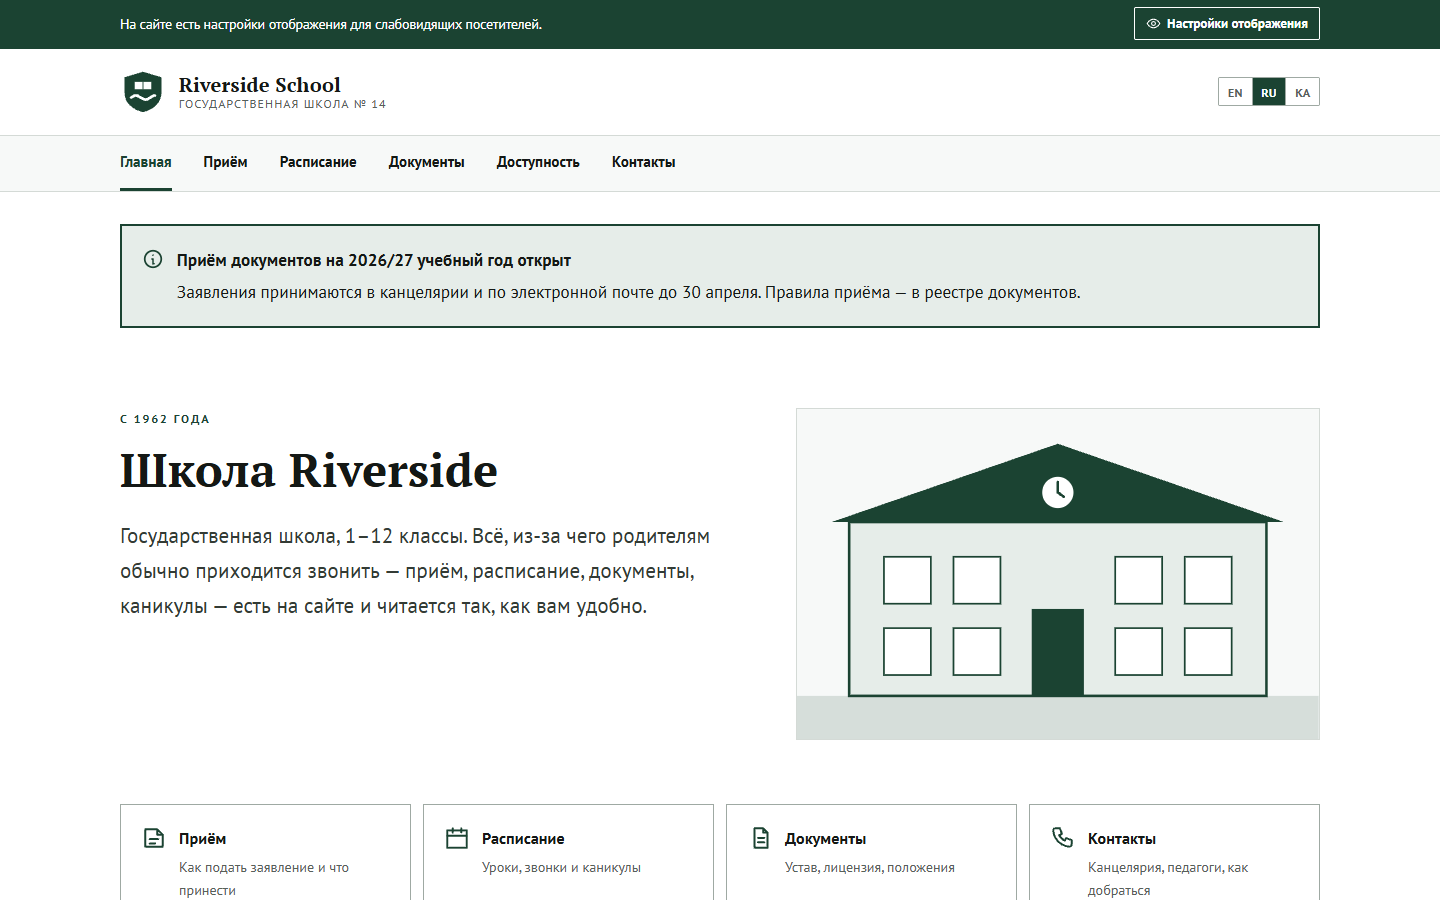
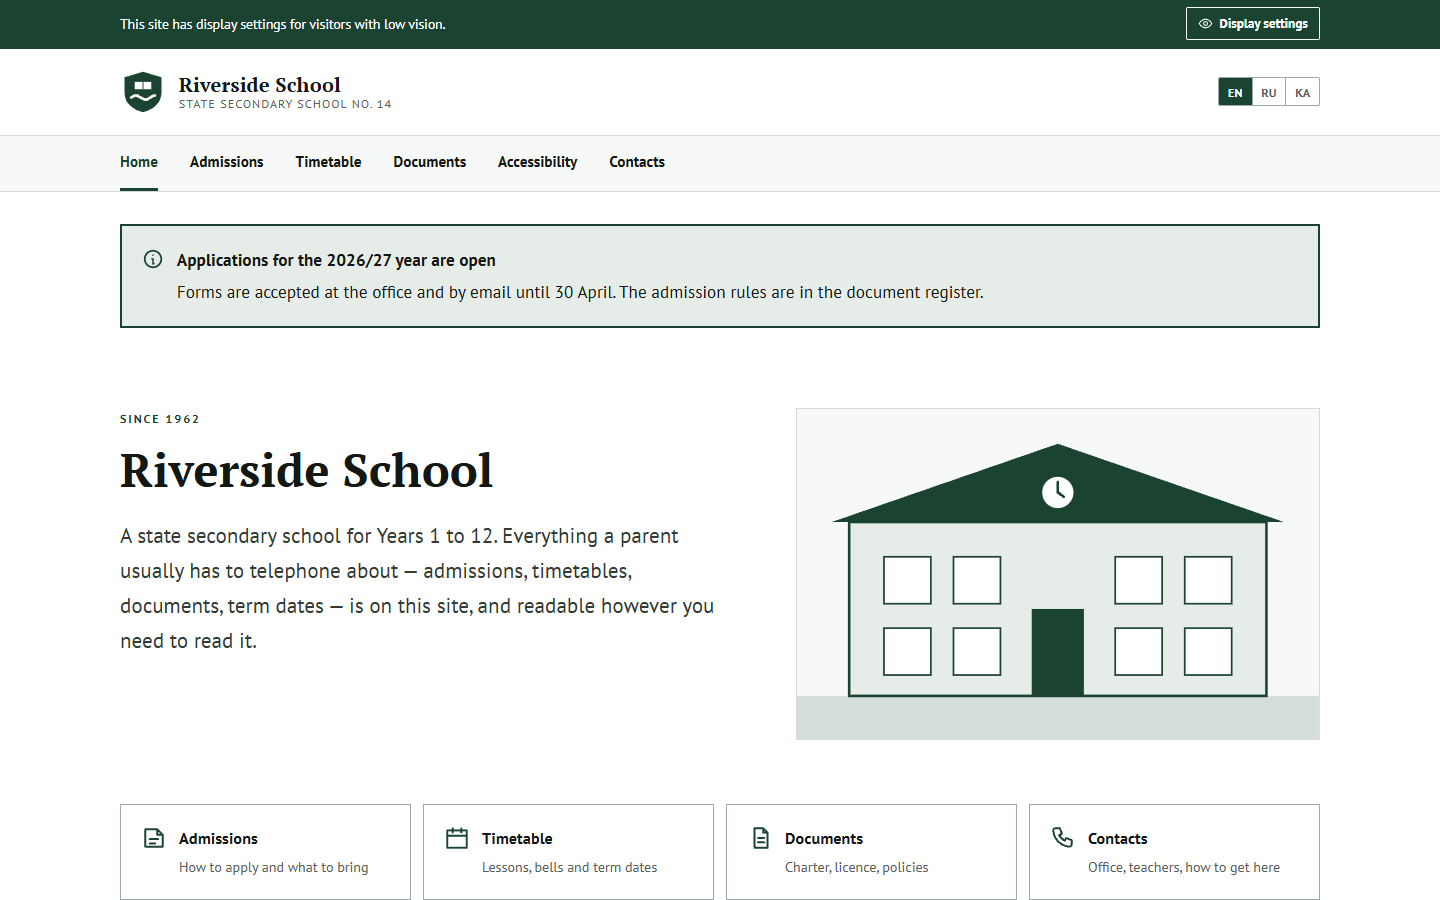
Site files, README and preview

diff --git a/accessibility.html b/accessibility.html
@@ -24,8 +24,7 @@
   if (p && langs.indexOf(p[1].toLowerCase()) > -1) lang = p[1].toLowerCase();
   if (!lang) { try { var s = localStorage.getItem('rs-lang'); if (langs.indexOf(s) > -1) lang = s; } catch (e) {} }
   if (!lang) {
-    var n = (navigator.language || 'en').toLowerCase();
-    lang = n.indexOf('ru') === 0 ? 'ru' : (n.indexOf('ka') === 0 ? 'ka' : 'en');
+    lang = 'en';
   }
   d.setAttribute('data-lang', lang);
   if (lang !== 'en') { d.className += ' i18n-pending'; setTimeout(function () { d.classList.remove('i18n-pending'); }, 1200); }

diff --git a/documents.html b/documents.html
@@ -24,8 +24,7 @@
   if (p && langs.indexOf(p[1].toLowerCase()) > -1) lang = p[1].toLowerCase();
   if (!lang) { try { var s = localStorage.getItem('rs-lang'); if (langs.indexOf(s) > -1) lang = s; } catch (e) {} }
   if (!lang) {
-    var n = (navigator.language || 'en').toLowerCase();
-    lang = n.indexOf('ru') === 0 ? 'ru' : (n.indexOf('ka') === 0 ? 'ka' : 'en');
+    lang = 'en';
   }
   d.setAttribute('data-lang', lang);
   if (lang !== 'en') { d.className += ' i18n-pending'; setTimeout(function () { d.classList.remove('i18n-pending'); }, 1200); }

diff --git a/index.html b/index.html
@@ -24,8 +24,7 @@
   if (p && langs.indexOf(p[1].toLowerCase()) > -1) lang = p[1].toLowerCase();
   if (!lang) { try { var s = localStorage.getItem('rs-lang'); if (langs.indexOf(s) > -1) lang = s; } catch (e) {} }
   if (!lang) {
-    var n = (navigator.language || 'en').toLowerCase();
-    lang = n.indexOf('ru') === 0 ? 'ru' : (n.indexOf('ka') === 0 ? 'ka' : 'en');
+    lang = 'en';
   }
   d.setAttribute('data-lang', lang);
   if (lang !== 'en') { d.className += ' i18n-pending'; setTimeout(function () { d.classList.remove('i18n-pending'); }, 1200); }

diff --git a/timetable.html b/timetable.html
@@ -24,8 +24,7 @@
   if (p && langs.indexOf(p[1].toLowerCase()) > -1) lang = p[1].toLowerCase();
   if (!lang) { try { var s = localStorage.getItem('rs-lang'); if (langs.indexOf(s) > -1) lang = s; } catch (e) {} }
   if (!lang) {
-    var n = (navigator.language || 'en').toLowerCase();
-    lang = n.indexOf('ru') === 0 ? 'ru' : (n.indexOf('ka') === 0 ? 'ka' : 'en');
+    lang = 'en';
   }
   d.setAttribute('data-lang', lang);
   if (lang !== 'en') { d.className += ' i18n-pending'; setTimeout(function () { d.classList.remove('i18n-pending'); }, 1200); }
